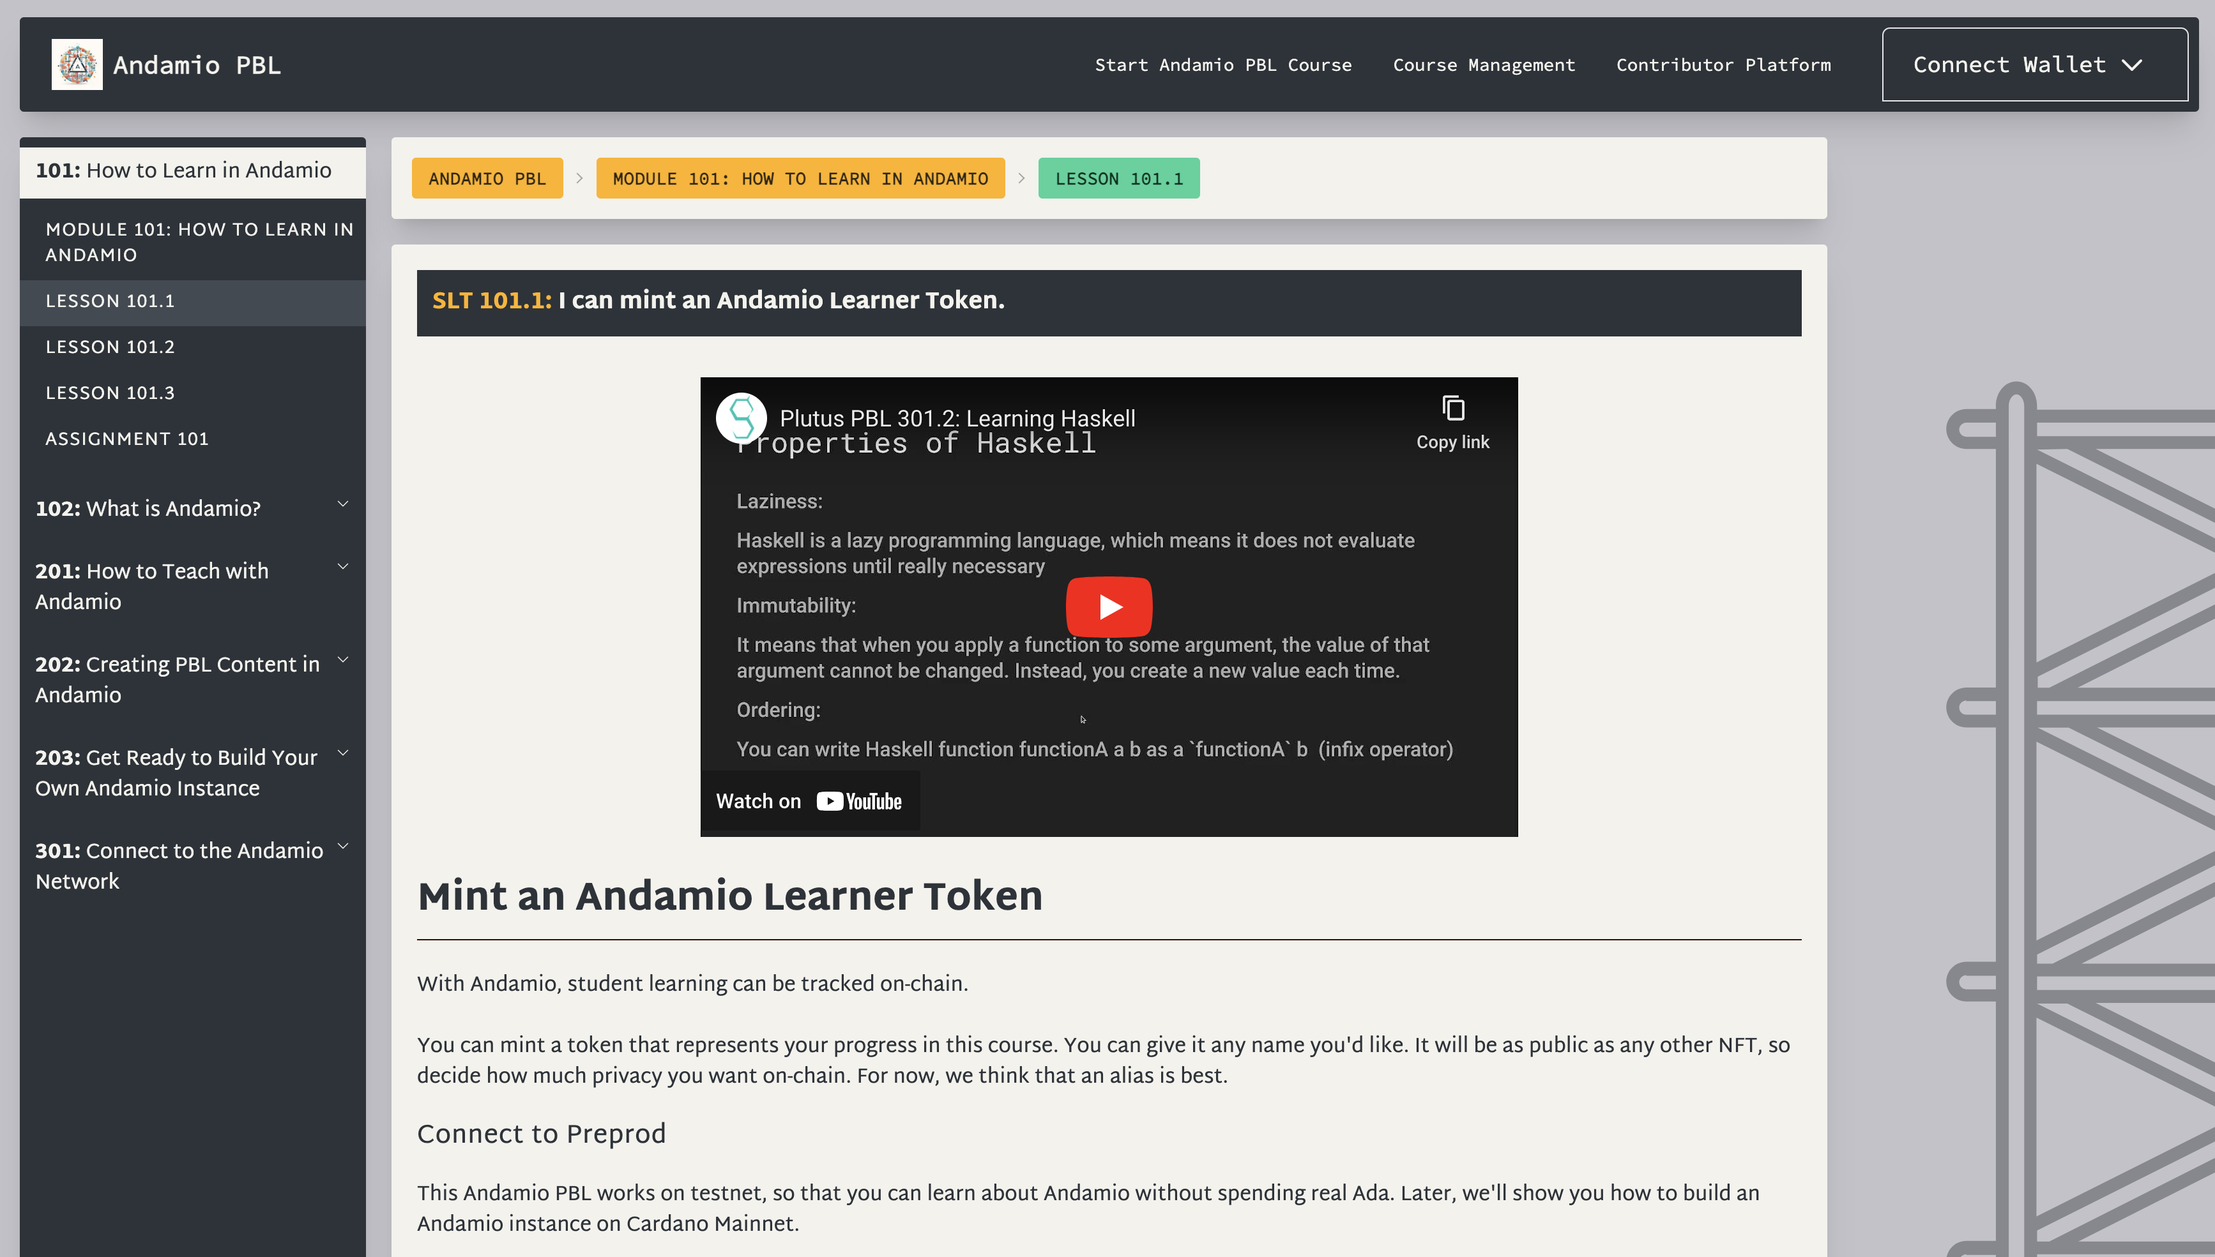
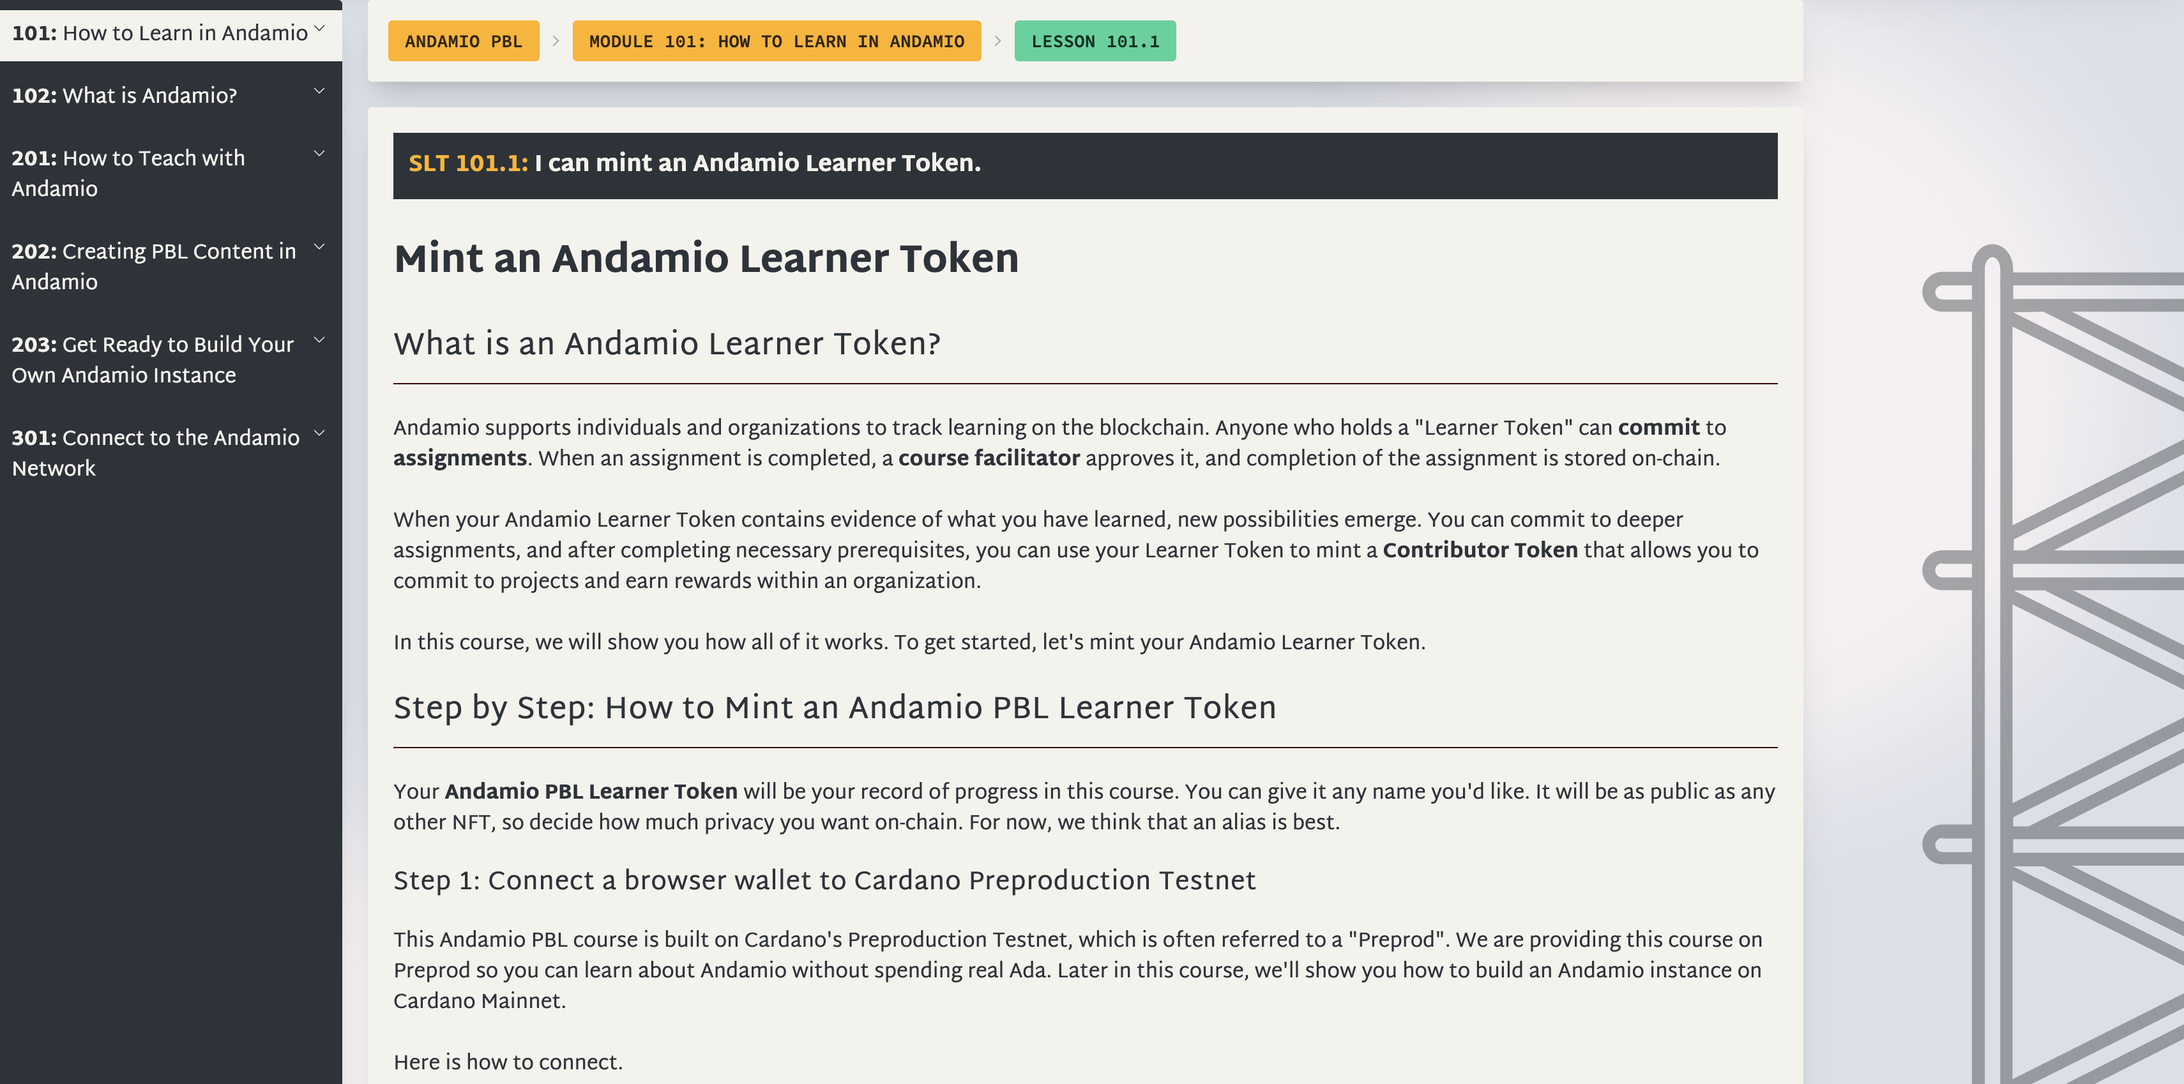
commit from ci pipeline

diff --git a/src/app/page.tsx b/src/app/page.tsx
@@ -1,46 +1,158 @@
-import { ChevronRightIcon } from "@heroicons/react/20/solid";
+import { ChevronRightIcon, CheckIcon } from "@heroicons/react/20/solid";
+import Image from "next/image";
+import Link from "next/link";
 
-export default function Example() {
+const features = [
+  { name: "Education", description: "Support people to learn new skills." },
+  {
+    name: "Onboarding",
+    description: "Provide opportunities for people to join impactful projects.",
+  },
+  {
+    name: "Course Management",
+    description: "Publish Lessons and Assignments, track progress of everyone participating in your course..",
+  },
+  {
+    name: "Contribution Management",
+    description: "When learners are ready to make valuable contributions, use an Andamio Treasury to approve projects and manage funds.",
+  },
+  {
+    name: "Organization Development",
+    description: "Gain insights into what's working best in your organization and where there is room to improve..",
+  },
+
+];
+
+export default function HomePage() {
   return (
-    <div className="">
-      <div className="mx-auto max-w-7xl px-6 pb-24 pt-10 sm:pb-32 lg:flex lg:px-8 lg:py-40">
-        <div className="mx-auto max-w-2xl flex-shrink-0 lg:mx-0 lg:max-w-xl lg:pt-8">
-          <img className="h-24" src="/andamio.png" alt="Andamio" />
-          <div className="mt-24 sm:mt-32 lg:mt-16">
-            <a href="#" className="inline-flex space-x-6">
-              <span className="inline-flex items-center space-x-2 text-sm font-medium leading-6 text-secondary-content">
-                <span>Alpha v1.0 now live</span>
-                <ChevronRightIcon className="h-5 w-5 text-gray-500" aria-hidden="true" />
-              </span>
-            </a>
-          </div>
-          <h1 className="mt-10 text-4xl font-bold tracking-tight text-secondary-content sm:text-6xl">
-            Find your collaborators
-          </h1>
-          <p className="mt-6 text-lg leading-8 text-secondary-content">Learn, commit, contribute and build an organization</p>
-          <div className="flex flex-row gap-5 my-5">
-            <div className="btn btn-success btn-sm rounded-full">
-              <a href="#">Start Andamio PBL</a>
-            </div>
-            <div className="btn btn-success btn-sm rounded-full">
-              <a href="#" className="">
-                Learn More <span aria-hidden="true">→</span>
+    <main>
+      <div className="relative isolate overflow-hidden">
+        <div className="mx-auto max-w-7xl px-6 pb-24 pt-10 sm:pb-32 lg:flex lg:px-8 lg:py-40">
+          <div className="mx-auto max-w-2xl flex-shrink-0 lg:mx-0 lg:max-w-xl lg:pt-8">
+            <div className="mt-24 sm:mt-32 lg:mt-16">
+              <a href="#" className="inline-flex space-x-6">
+                <span className="inline-flex items-center space-x-2 text-sm font-medium leading-6 text-secondary-content">
+                  <span>Alpha v1.0 now live</span>
+                  <ChevronRightIcon className="h-5 w-5 text-gray-500" aria-hidden="true" />
+                </span>
               </a>
             </div>
+            <h1 className="text-6xl my-10 font-bold leading-[5rem] text-secondary-content">
+              Onboard Your Collaborators
+            </h1>
+            <p className="mt-6 text-lg leading-8 text-secondary-content">
+              Learn, commit, contribute and build an organization
+            </p>
+            <div className="flex flex-row gap-5 my-5">
+              <div className="btn btn-success btn-sm rounded-full">
+                <a href="#">Start Andamio PBL</a>
+              </div>
+              <div className="btn btn-success btn-sm rounded-full">
+                <a href="#" className="">
+                  Learn More <span aria-hidden="true">→</span>
+                </a>
+              </div>
+            </div>
           </div>
-        </div>
-        <div className="mx-auto mt-16 flex max-w-2xl sm:mt-24 lg:ml-10 lg:mr-0 lg:mt-0 lg:max-w-none lg:flex-none xl:ml-32">
-          <div className="max-w-3xl flex-none sm:max-w-5xl lg:max-w-none">
-            <img
-              src="/andamio-screenshot.png"
-              alt="App screenshot"
-              width={2432}
-              height={1442}
-              className="w-[76rem] rounded-md bg-white/5 shadow-2xl ring-1 ring-white/10"
-            />
+          <div className="mx-auto mt-16 flex max-w-2xl sm:mt-24 lg:ml-10 lg:mr-0 lg:mt-0 lg:max-w-none lg:flex-none xl:ml-32">
+            <div className="max-w-3xl flex-none rounded-xl p-3 sm:max-w-5xl lg:max-w-none">
+              <Link href="/course">
+                <img
+                  src="/andamio-screenshot.png"
+                  alt="App screenshot"
+                  width={2432}
+                  height={1442}
+                  className="w-[76rem] rounded-md bg-white/5 shadow-2xl ring-1 ring-white/10"
+                />
+              </Link>
+            </div>
           </div>
         </div>
       </div>
-    </div>
+      <div className="bg-secondary py-24 sm:py-32">
+        <div className="mx-auto max-w-7xl px-6 lg:px-8">
+          <div className="mx-auto grid max-w-2xl grid-cols-1 gap-x-8 gap-y-16 sm:gap-y-20 lg:mx-0 lg:max-w-none lg:grid-cols-3">
+            <div>
+              <h2 className="text-base font-semibold leading-7 text-accent">Flourishing Communities</h2>
+              <p className="mt-2 text-3xl font-bold tracking-tight text-secondary-content sm:text-4xl">
+                Learners and Contributors
+              </p>
+              <p className="mt-6 text-base leading-7 text-gray-600">
+                We are here to push power to the edges. Andamio is the tool for the job.
+              </p>
+              <img className="h-80 rounded-xl shadow-xl" src="/andamio.png" alt="Andamio" />
+            </div>
+            <dl className="col-span-2 grid grid-cols-1 gap-x-8 gap-y-10 text-base leading-7 text-secondary-content sm:grid-cols-2 lg:gap-y-16">
+              {features.map((feature) => (
+                <div key={feature.name} className="relative pl-9">
+                  <dt className="font-semibold text-secondary-content">
+                    <CheckIcon className="absolute left-0 top-1 h-5 w-5 text-success" aria-hidden="true" />
+                    {feature.name}
+                  </dt>
+                  <dd className="mt-2">{feature.description}</dd>
+                </div>
+              ))}
+            </dl>
+          </div>
+        </div>
+      </div>
+      <div className="card bg-secondary text-secondary-content w-2/3 mx-auto my-10 shadow-xl p-5 grid grid-cols-3">
+        <div className="col-span-1">
+          <Image src="/icons/human-network-1-primary.png" width={300} height={300} alt="people-network" />
+        </div>
+        <div className="col-span-2">
+          <h2 className="text-3xl font-mono font-bold py-10">From Community to Collaboration</h2>
+          <p className="">
+            Andamio supports communmities to set clear intentions for onboarding and engagement. You need contributors.
+            Contributors need clarity. Everyone is learning together.
+          </p>
+        </div>
+      </div>
+      <div className="card bg-secondary text-secondary-content w-2/3 mx-auto my-10 shadow-xl p-5 grid grid-cols-3">
+        <div className="col-span-2">
+          <h2 className="text-3xl font-mono font-bold py-10">From Local Collaboration to Global Contribution</h2>
+          <p className="">
+            Any organization using Andamio can hook up to the network and share learning credentials. Because learning
+            targets are clearly stated, everyone can have clear expectations. Organizations can remain independent, or
+            can opt in, any time, to the part of the Andamio network that is helpful.
+          </p>
+        </div>
+        <div className="col-span-1">
+          <Image src="/icons/global-2-primary.png" width={300} height={300} alt="global-network" />
+        </div>
+      </div>
+      <div className="card bg-secondary text-secondary-content w-2/3 mx-auto my-10 shadow-xl p-5 grid grid-cols-3">
+        <div className="col-span-1">
+          <Image src="/icons/scaffolding-primary-xl.png" width={500} height={500} alt="scaffolding" />
+        </div>
+        <div className="col-span-2">
+          <h2 className="text-3xl font-mono font-bold py-10">Turn Your Docs into a Learning Journey</h2>
+          <p className="">
+            Any existing markdown documentation looks great in Andamio. Just drop your Markdown into an Andamio instance
+            and publish.
+          </p>
+        </div>
+      </div>
+      <div className="card bg-secondary text-secondary-content w-2/3 mx-auto my-10 shadow-xl p-5 grid grid-cols-3">
+        <div className="col-span-2">
+          <h2 className="text-3xl font-mono font-bold py-10">Don&apos;t Trust, Verify</h2>
+          <p className="">
+            Learners can validate that organizations are teaching what they promised. Anyone can verify that learning
+            and contribution is happening. In a world of fractal impact that adds up, everyone is an oracle.
+          </p>
+        </div>
+        <div className="col-span-1">
+          <Image src="/icons/validate-primary.png" width={400} height={400} alt="validate" />
+        </div>
+      </div>
+    </main>
   );
 }
+
+// Existing devs: your markdown looks great in Andaio
+// Turn your documenation into a PBL course
+// Build an on-chain record of contributions
+// Turn your community into contributors
+// Turn your community into collaborators
+// Launch community collaborations
+// Collaborate with other organizations - the andamio network

diff --git a/tailwind.config.ts b/tailwind.config.ts
@@ -6,19 +6,15 @@ const config: Config = {
     "./src/components/**/*.{js,ts,jsx,tsx,mdx}",
     "./src/app/**/*.{js,ts,jsx,tsx,mdx}",
   ],
-  // theme: {
-  //   extend: {
-  //     backgroundImage: {
-  //       'gradient-br': 'linear-gradient(to bottom right, rgb(55 65 81), rgb(30 45 45))',
-  //       'gradient-tl': 'linear-gradient(to top left, rgb(55 65 81), rgb(30 45 45))',
-  //     },
-  //   },
-  // },
   theme: {
     extend: {
       fontFamily: {
         sans: ['var(--font-martel-sans)'],
         mono: ['var(--font-source-code-pro)'],
+      },
+      backgroundImage: {
+        'test-1': "url('/bg-test-1.png')",
+        'test-2': "url('/red-rect.png')",
       }
     }
   },
@@ -38,22 +34,6 @@ const config: Config = {
           "accent": "#400406",
           "accent-content": "#D6D7EB",
           "info": "#FFB100",
-          "--rounded-box": "0.2rem",
-          "--rounded-btn": "0.2rem"
-        },
-      },
-      {
-        slay: {
-          "primary": "E6EB59",
-          "primary-content": "#DD65E6",
-          "primary-focus": "#FFFFFF",
-          "secondary": "6BE73E",
-          "secondary-content": "#FF844B",
-          "secondary-focus": "#FFFFFF",
-          "neutral": "#54F1DC", // for lesson content
-          "accent": "#FF844B",
-          "accent-content": "#000000",
-          "info": "#54F1DC",
           "--rounded-box": "0.2rem",
           "--rounded-btn": "0.2rem"
         },

diff --git a/src/app/course/CourseModuleDetailsCard.tsx b/src/app/course/CourseModuleDetailsCard.tsx
@@ -58,11 +58,11 @@ export default function CourseModuleDetailsCard(props: {
           <div className="flex flex-row gap-5 mt-5">
             <div className="tooltip hover:scale-105" data-tip={`Click to view Assignment ${props.courseJSON.id}`}>
               <Link href={`/course/module/${props.courseJSON.id}/assignment${props.courseJSON.id}`}>
-                <Image src="/assignment-primary2-sm.png" width={40} height={40} alt="assignment" />
+                <Image src="/icons/assignment-primary2-sm.png" width={40} height={40} alt="assignment" />
               </Link>
             </div>
             <div className="tooltip hover:scale-105" data-tip="don't trust, verify">
-              <Image src="/validate-primary-sm.png" width={40} height={40} alt="validate" />
+              <Image src="/icons/validate-primary-sm.png" width={40} height={40} alt="validate" />
             </div>
           </div>
           {moduleOnChain && (

diff --git a/src/app/layout.tsx b/src/app/layout.tsx
@@ -17,7 +17,7 @@ const martel_sans = Martel_Sans({
 const source_code_pro = Source_Code_Pro({
   subsets: ["latin"],
   display: "swap",
-  weight: "400",
+  weight: ["200", "400", "600", "800"],
   variable: "--font-source-code-pro",
 });
 
@@ -31,7 +31,7 @@ export default function RootLayout({ children }: { children: React.ReactNode }) 
     <html lang="en" data-theme="andamio" className={`${source_code_pro.variable} ${martel_sans.variable}`}>
       <body>
         <Providers>
-          <div className="flex flex-col bg-[#C2C2C9]">
+          <div className="flex flex-col bg-test-1 bg-cover bg-fixed">
             <GlobalNav />
             {children}
           </div>

diff --git a/src/app/course-management/roles/learner/dashboard/page.tsx b/src/app/course-management/roles/learner/dashboard/page.tsx
@@ -6,7 +6,7 @@ import ViewLearnerTokenData from "./ViewLearnerTokenData";
 export default function LearnerDashboardPage() {
   return (
     <>
-      <div className="w-2/3 mx-auto fixed right-0 min-h-screen bg-[url('/scaffold.svg')] z-0 opacity-40" />
+      <div className="w-2/3 mx-auto fixed right-0 min-h-screen bg-[url('/icons/scaffold.svg')] z-0 opacity-40" />
       <main className="flex flex-col w-3/4 mx-auto min-h-screen">
         <h1 className="text-6xl font-mono text-secondary-content my-10">{andamioConfig.title} Learner Dashboard</h1>
         <ViewLearnerTokenData />

diff --git a/src/app/course/CoursePage.module.css b/src/app/course/CoursePage.module.css
@@ -5,7 +5,7 @@
 }
 
 .coursePageContainer h1 {
-  @apply text-3xl my-3 pb-3 border-b border-accent font-bold text-secondary-content
+  @apply text-3xl my-5 font-bold text-secondary-content
 }
 
 .coursePageContainer h2 {
@@ -28,8 +28,16 @@
   @apply py-3 text-secondary-content pl-2 ml-2 list-disc
 }
 
+.coursePageContainer ol {
+  @apply py-3 text-secondary-content pl-2 ml-2 list-decimal
+}
+
 .coursePageContainer li {
   @apply py-1 text-secondary-content pl-2 ml-2
+}
+
+.coursePageContainer a {
+  @apply font-bold hover:text-blue-800
 }
 
 .coursePageContainer table {

diff --git a/src/app/course/layout.tsx b/src/app/course/layout.tsx
@@ -14,7 +14,7 @@ export default async function CourseLayout({ children }: { children: React.React
 
   return (
     <>
-      <div className="w-2/5 mx-auto fixed right-0 min-h-screen bg-[url('/scaffold.svg')] z-0 opacity-40" />
+      <div className="w-2/5 mx-auto fixed right-0 min-h-screen bg-[url('/icons/scaffold.svg')] z-0 opacity-40" />
       <div className="grid grid-cols-12 w-full my-5 z-10">
         <div className="col-span-4 md:col-span-3 lg:col-span-2 ml-5 ">
           <Suspense fallback={loading}>

diff --git a/src/andamio/course/101/1011.md b/src/andamio/course/101/1011.md
@@ -4,23 +4,37 @@
     "slt": ["101.1"],
     "type": "Lesson",
     "description": "Mint an Andamio Learner Token",
-    "videoURL": "https://www.youtube.com/watch?v=fZEDEWyiuZA",
-    "lastEdited": "2023-10-06",
+    "videoURL": "",
+    "lastEdited": "2023-11-14",
     "author": "Andamio Team"
 }
 ---
 
-With Andamio, student learning can be tracked on-chain.
+## What is an Andamio Learner Token?
 
-You can mint a token that represents your progress in this course. You can give it any name you'd like. It will be as public as any other NFT, so decide how much privacy you want on-chain. For now, we think that an alias is best.
+Andamio supports individuals and organizations to track learning on the blockchain. Anyone who holds a "Learner Token" can **commit** to **assignments**. When an assignment is completed, a **course facilitator** approves it, and completion of the assignment is stored on-chain.
 
-### Connect to Preprod
-This Andamio PBL works on testnet, so that you can learn about Andamio without spending real Ada. Later, we'll show you how to build an Andamio instance on Cardano Mainnet.
+When your Andamio Learner Token contains evidence of what you have learned, new possibilities emerge. You can commit to deeper assignments, and after completing necessary prerequisites, you can use your Learner Token to mint a **Contributor Token** that allows you to commit to projects and earn rewards within an organization.
+
+In this course, we will show you how all of it works. To get started, let's mint your Andamio Learner Token.
+
+## Step by Step: How to Mint an Andamio PBL Learner Token
+
+Your **Andamio PBL Learner Token** will be your record of progress in this course. You can give it any name you'd like. It will be as public as any other NFT, so decide how much privacy you want on-chain. For now, we think that an alias is best.
+
+### Step 1: Connect a browser wallet to Cardano Preproduction Testnet
+This Andamio PBL course is built on Cardano's Preproduction Testnet, which is often referred to a "Preprod". We are providing this course on Preprod so you can learn about Andamio without spending real Ada. Later in this course, we'll show you how to build an Andamio instance on Cardano Mainnet.
 
 Here is how to connect.
 
-### You'll need some Test Ada.
+(Coming soon - need Markdoc image node)
+
+### Step 2: Get some Test Ada.
 Once your wallet is connected, press this button to get some free tAda!
 
-### Mint a Token!
-Link, embed, or build an Assignment Layout that shows a commitment component.
+### Step 3: Mint your Learner Token!
+[Click here](/course-management/roles/learner/dashboard) to see your Learner Dashboard. After you connect a wallet, you will see a button that says "Mint Your Learner Token". Click it and follow the steps. 
+
+## You will know you are successful if:
+1. You can see your Andamio PBL Learner Token in your Preprod Wallet.
+2. You can see your Andamio PBL Learner Token [on this page](/course-management/learner-list)

diff --git a/src/andamio/course/101/1013.md b/src/andamio/course/101/1013.md
@@ -4,7 +4,7 @@
     "slt": ["101.3"],
     "type": "Lesson",
     "description": "Earn Tokens and Credentials",
-    "videoURL": "https://www.youtube.com/watch?v=fZEDEWyiuZA",
+    "videoURL": "",
     "lastEdited": "2023-10-04",
     "author": "Andamio Team"
 }

diff --git a/src/andamio/course/101/1012.md b/src/andamio/course/101/1012.md
@@ -4,7 +4,7 @@
     "slt": ["101.2"],
     "type": "Lesson",
     "description": "Commit to an Assignment",
-    "videoURL": "https://www.youtube.com/watch?v=fZEDEWyiuZA",
+    "videoURL": "",
     "lastEdited": "2023-10-04",
     "author": "Andamio Team"
 }
